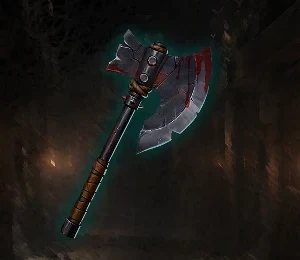
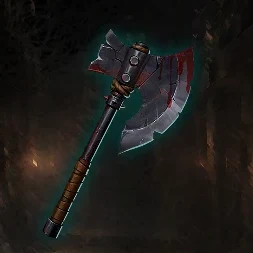
fix(ss14): square instrument art, focused on the object
- All 30 instrument pictures are re-cut square in game_art.py, framed on
  the instrument with even margins: 16 from the owner's own crops (located
  in the source prints, squared around their centre), the rest by the
  longer side, kept clear of card frames and names. The 7 video-still cuts
  no longer clip their object; the Iron Box drops the slot frame.
- The list draws them in an 83 px square; the art is absolutely placed in
  its box, so a picture's shape never sets a row's height (the Iron Box
  row was twice as tall).
- e2e: every instrument row has one height (proved with the old art: rows
  73-116 px); list pictures are checked whole at 390 and 1440 px.
- Still soft at 2x for want of a bigger source: Iron Crown, Iron Box,
  Barbed Collar (on the watchlist).

diff --git a/e2e/ss14.spec.ts b/e2e/ss14.spec.ts
@@ -376,3 +376,14 @@ for (const width of [390, 1440]) {
     expect(cropped).toEqual([]);
   });
 }
+
+// One row height for every instrument: the art sits on its box and never sets the row (a tall Iron Box icon made
+// its row twice as tall, owner 2026-10-18).
+test('instrument rows: the art never sets the row height', async ({ page }) => {
+  await page.setViewportSize({ width: 1440, height: 900 });
+  await page.goto(SHEET);
+  const heights = await page
+    .locator('#tools .tool')
+    .evaluateAll((rows) => [...new Set(rows.map((r) => Math.round(r.getBoundingClientRect().height)))]);
+  expect(heights).toHaveLength(1);
+});

diff --git a/src/sheets/ss14/play.css b/src/sheets/ss14/play.css
@@ -574,12 +574,15 @@ main.wide {
 /* card media on the left: full height of the row, no frame of its own */
 .tool .pic {
   display: block;
+  position: relative; /* the art sits on the box: its own height never sets the row's */
   align-self: stretch;
-  width: 83px; /* art wider than the box (up to 4:3) gets thin bands, never a crop */
-  min-height: 69px;
+  width: 83px; /* square, like the art: game_art.py cuts every instrument square, focused on the object */
+  min-height: 83px;
   background: #1b1916;
 }
 .tool img {
+  position: absolute;
+  inset: 0;
   width: 100%;
   height: 100%;
   object-fit: contain;

diff --git a/events/SS14_Tartarus/scripts/game_art.py b/events/SS14_Tartarus/scripts/game_art.py
@@ -47,36 +47,36 @@ CROPS = [
     ("act-replace", "27_vod_board_numbering_decision_menu.jpg", (908, 758, 100, 100), "Replace"),
     ("act-end", "27_vod_board_numbering_decision_menu.jpg", (1253, 758, 100, 100), "End"),
     # Torture Instruments: card art (ids match data/tartarus_data.json "tools")
-    ("tool-revenge", "44_live_instrument_offer.webp", (484, 353, 300, 280), "Avenger's Casket"),
-    ("tool-keys", "44_live_instrument_offer.webp", (1123, 353, 300, 280), "Lost Ring of Keys"),
-    ("tool-shackles", "44_live_instrument_offer.webp", (1761, 361, 300, 275), "Long-Chained Shackles"),
-    ("tool-cage", "67_live_objective_reward_cage_whip_coin.webp", (484, 353, 300, 280), "Crowded Beastcage"),
-    ("tool-coin", "67_live_objective_reward_cage_whip_coin.webp", (1761, 361, 300, 275), "Kin's Coin of Fate"),
-    ("tool-claws", "66_live_instrument_offer_saw_stake_claws.webp", (1761, 361, 300, 275), "Filthy Claws: Alpha Wolf (not in the simulator yet, so the site doesn't list it)"),
-    ("tool-shortchain", "69_live_instrument_short_chained_shackles.webp", (210, 230, 300, 260), "Short-Chained Shackles"),
-    ("tool-muzzle", "34_vod_torture_set_casket_muzzle_saw.jpg", (847, 270, 220, 165), "Raging Beast's Agonizing Muzzle"),
-    ("tool-saw", "34_vod_torture_set_casket_muzzle_saw.jpg", (1327, 270, 220, 165), "Rusty Saw"),
-    ("tool-scales", "35_vod_torture_set_scales_noose_pestle.jpg", (367, 270, 220, 165), "Warden's Scales"),
-    ("tool-rope", "35_vod_torture_set_scales_noose_pestle.jpg", (847, 270, 220, 165), "Hangman's Noose"),
-    ("tool-pestle", "74_live_objective_reward_scapegoat_pestle_fire.webp", (893, 260, 300, 260), "Iron Pestle (live; replaces the VOD crop)"),
-    ("tool-crown", "76_live_instrument_slot_iron_crown.webp", (60, 154, 100, 83), "Iron Crown of the Prison King (live, small print: low resolution)"),
-    ("tool-blacklist", "77_live_instrument_executioners_blacklist.webp", (235, 235, 320, 277), "Executioner's Blacklist"),
-    ("tool-ravenous", "82_live_instrument_ravenous_chains.webp", (150, 135, 240, 210), "Ferocious Beast's Ravenous Chains"),
-    ("tool-trap", "83_live_instrument_blood_stained_trap.webp", (150, 130, 240, 210), "Blood-Stained Trap: Berserk Lion"),
-    ("tool-whip", "73_live_instrument_offer_maiden_whip_shackles.webp", (893, 260, 300, 260), "Barbed Whip (live; replaces the VOD crop)"),
-    ("tool-stake", "36_vod_torture_set_whip_stake_key.jpg", (847, 270, 220, 165), "Burning Stake"),
-    ("tool-forged", "36_vod_torture_set_whip_stake_key.jpg", (1327, 270, 220, 165), "Forged Key"),
-    ("tool-tongs", "37_vod_torture_set_tongs_ratheads_guillotine.jpg", (367, 270, 220, 165), "Iron Tongs of Lust: Mammoth"),
-    ("tool-skewer", "78_live_instrument_skewered_rat_heads.webp", (150, 130, 270, 225), "Skewered Rat Heads: Colossal Rat (live; replaces the VOD crop)"),
-    ("tool-hook", "71_live_instrument_offer_fire_hook_axe.webp", (787, 170, 300, 260), "Sorting Hook"),
-    ("tool-axe", "71_live_instrument_offer_fire_hook_axe.webp", (1440, 175, 300, 260), "Gaoler's Execution Axe"),
-    ("tool-collar", "72_live_instrument_offer_hook_collar_shackles.webp", (498, 135, 180, 150), "Maddened Beast's Barbed Collar"),
-    ("tool-maiden", "73_live_instrument_offer_maiden_whip_shackles.webp", (250, 254, 300, 260), "Severed Iron Maiden"),
-    ("tool-scapegoat", "74_live_objective_reward_scapegoat_pestle_fire.webp", (250, 254, 300, 260), "Scapegoat's Guillotine"),
-    ("tool-ironbox", "38_vod_squirming_iron_box_rat_nest.jpg", (87, 328, 74, 100), "Squirming Iron Box: Colossal Rat (small icon from the left Torture Instrument panel)"),
-    ("tool-dogtag", "70_live_objective_reward_dogtag_guillotine_fire.webp", (236, 240, 300, 250), "Felon's Dog Tag"),
-    ("tool-guillotine", "70_live_objective_reward_dogtag_guillotine_fire.webp", (873, 240, 300, 250), "Fanged Guillotine: Alpha Wolf (live; replaces the VOD crop)"),
-    ("tool-fire", "70_live_objective_reward_dogtag_guillotine_fire.webp", (1510, 240, 300, 250), "Searing Branding Iron"),
+    ("tool-revenge", "44_live_instrument_offer.webp", (484, 343, 300, 300), "Avenger's Casket"),
+    ("tool-keys", "44_live_instrument_offer.webp", (1161, 374, 253, 253), "Lost Ring of Keys"),
+    ("tool-shackles", "44_live_instrument_offer.webp", (1774, 357, 270, 270), "Long-Chained Shackles"),
+    ("tool-cage", "67_live_objective_reward_cage_whip_coin.webp", (510, 369, 268, 268), "Crowded Beastcage"),
+    ("tool-coin", "67_live_objective_reward_cage_whip_coin.webp", (1805, 392, 229, 229), "Kin's Coin of Fate"),
+    ("tool-claws", "66_live_instrument_offer_saw_stake_claws.webp", (1797, 367, 247, 247), "Filthy Claws: Alpha Wolf (not in the simulator yet, so the site doesn't list it)"),
+    ("tool-shortchain", "69_live_instrument_short_chained_shackles.webp", (251, 242, 259, 259), "Short-Chained Shackles"),
+    ("tool-muzzle", "34_vod_torture_set_casket_muzzle_saw.jpg", (841, 232, 242, 242), "Raging Beast's Agonizing Muzzle"),
+    ("tool-saw", "34_vod_torture_set_casket_muzzle_saw.jpg", (1326, 247, 231, 231), "Rusty Saw"),
+    ("tool-scales", "35_vod_torture_set_scales_noose_pestle.jpg", (364, 252, 226, 226), "Warden's Scales"),
+    ("tool-rope", "35_vod_torture_set_scales_noose_pestle.jpg", (848, 212, 212, 212), "Hangman's Noose"),
+    ("tool-pestle", "74_live_objective_reward_scapegoat_pestle_fire.webp", (913, 254, 260, 260), "Iron Pestle (live; replaces the VOD crop)"),
+    ("tool-crown", "76_live_instrument_slot_iron_crown.webp", (60, 146, 100, 100), "Iron Crown of the Prison King (live, small print: low resolution)"),
+    ("tool-blacklist", "77_live_instrument_executioners_blacklist.webp", (264, 233, 281, 281), "Executioner's Blacklist"),
+    ("tool-ravenous", "82_live_instrument_ravenous_chains.webp", (150, 120, 240, 240), "Ferocious Beast's Ravenous Chains"),
+    ("tool-trap", "83_live_instrument_blood_stained_trap.webp", (150, 108, 240, 240), "Blood-Stained Trap: Berserk Lion"),
+    ("tool-whip", "73_live_instrument_offer_maiden_whip_shackles.webp", (918, 258, 260, 260), "Barbed Whip (live; replaces the VOD crop)"),
+    ("tool-stake", "36_vod_torture_set_whip_stake_key.jpg", (840, 196, 240, 240), "Burning Stake"),
+    ("tool-forged", "36_vod_torture_set_whip_stake_key.jpg", (1359, 297, 170, 170), "Forged Key"),
+    ("tool-tongs", "37_vod_torture_set_tongs_ratheads_guillotine.jpg", (378, 272, 213, 213), "Iron Tongs of Lust: Mammoth"),
+    ("tool-skewer", "78_live_instrument_skewered_rat_heads.webp", (150, 108, 270, 270), "Skewered Rat Heads: Colossal Rat (live; replaces the VOD crop)"),
+    ("tool-hook", "71_live_instrument_offer_fire_hook_axe.webp", (820, 184, 245, 245), "Sorting Hook"),
+    ("tool-axe", "71_live_instrument_offer_fire_hook_axe.webp", (1458, 175, 253, 253), "Gaoler's Execution Axe"),
+    ("tool-collar", "72_live_instrument_offer_hook_collar_shackles.webp", (521, 145, 144, 144), "Maddened Beast's Barbed Collar"),
+    ("tool-maiden", "73_live_instrument_offer_maiden_whip_shackles.webp", (278, 254, 260, 260), "Severed Iron Maiden"),
+    ("tool-scapegoat", "74_live_objective_reward_scapegoat_pestle_fire.webp", (250, 234, 300, 300), "Scapegoat's Guillotine"),
+    ("tool-ironbox", "38_vod_squirming_iron_box_rat_nest.jpg", (88, 354, 72, 72), "Squirming Iron Box: Colossal Rat (the box only, from the small icon in the left Torture Instrument panel; low-res until a card print)"),
+    ("tool-dogtag", "70_live_objective_reward_dogtag_guillotine_fire.webp", (272, 254, 229, 229), "Felon's Dog Tag"),
+    ("tool-guillotine", "70_live_objective_reward_dogtag_guillotine_fire.webp", (913, 251, 236, 236), "Fanged Guillotine: Alpha Wolf (live; replaces the VOD crop)"),
+    ("tool-fire", "70_live_objective_reward_dogtag_guillotine_fire.webp", (1548, 244, 250, 250), "Searing Branding Iron"),
     # Warden's Treasures (official preview VOD ~3:59; ids match "gifts")
     ("gift-ring", "39_vod_wardens_treasure_chromatic.jpg", (200, 260, 220, 200), "Three-Headed Thumb Ring"),
     ("gift-horn", "39_vod_wardens_treasure_chromatic.jpg", (635, 260, 220, 200), "Brass Horn of Strife"),

diff --git a/events/SS14_Tartarus/art/SOURCES.md b/events/SS14_Tartarus/art/SOURCES.md
@@ -21,36 +21,36 @@ Each piece is a rectangle cut from an image indexed in [images/INDEX.md](../imag
 | `act-consume` | Consume | [27_vod_board_numbering_decision_menu.jpg](../images/27_vod_board_numbering_decision_menu.jpg) | 563,758 100×100 |
 | `act-replace` | Replace | [27_vod_board_numbering_decision_menu.jpg](../images/27_vod_board_numbering_decision_menu.jpg) | 908,758 100×100 |
 | `act-end` | End | [27_vod_board_numbering_decision_menu.jpg](../images/27_vod_board_numbering_decision_menu.jpg) | 1253,758 100×100 |
-| `tool-revenge` | Avenger's Casket | [44_live_instrument_offer.webp](../images/44_live_instrument_offer.webp) | 484,353 300×280 |
-| `tool-keys` | Lost Ring of Keys | [44_live_instrument_offer.webp](../images/44_live_instrument_offer.webp) | 1123,353 300×280 |
-| `tool-shackles` | Long-Chained Shackles | [44_live_instrument_offer.webp](../images/44_live_instrument_offer.webp) | 1761,361 300×275 |
-| `tool-cage` | Crowded Beastcage | [67_live_objective_reward_cage_whip_coin.webp](../images/67_live_objective_reward_cage_whip_coin.webp) | 484,353 300×280 |
-| `tool-coin` | Kin's Coin of Fate | [67_live_objective_reward_cage_whip_coin.webp](../images/67_live_objective_reward_cage_whip_coin.webp) | 1761,361 300×275 |
-| `tool-claws` | Filthy Claws: Alpha Wolf (not in the simulator yet, so the site doesn't list it) | [66_live_instrument_offer_saw_stake_claws.webp](../images/66_live_instrument_offer_saw_stake_claws.webp) | 1761,361 300×275 |
-| `tool-shortchain` | Short-Chained Shackles | [69_live_instrument_short_chained_shackles.webp](../images/69_live_instrument_short_chained_shackles.webp) | 210,230 300×260 |
-| `tool-muzzle` | Raging Beast's Agonizing Muzzle | [34_vod_torture_set_casket_muzzle_saw.jpg](../images/34_vod_torture_set_casket_muzzle_saw.jpg) | 847,270 220×165 |
-| `tool-saw` | Rusty Saw | [34_vod_torture_set_casket_muzzle_saw.jpg](../images/34_vod_torture_set_casket_muzzle_saw.jpg) | 1327,270 220×165 |
-| `tool-scales` | Warden's Scales | [35_vod_torture_set_scales_noose_pestle.jpg](../images/35_vod_torture_set_scales_noose_pestle.jpg) | 367,270 220×165 |
-| `tool-rope` | Hangman's Noose | [35_vod_torture_set_scales_noose_pestle.jpg](../images/35_vod_torture_set_scales_noose_pestle.jpg) | 847,270 220×165 |
-| `tool-pestle` | Iron Pestle (live; replaces the VOD crop) | [74_live_objective_reward_scapegoat_pestle_fire.webp](../images/74_live_objective_reward_scapegoat_pestle_fire.webp) | 893,260 300×260 |
-| `tool-crown` | Iron Crown of the Prison King (live, small print: low resolution) | [76_live_instrument_slot_iron_crown.webp](../images/76_live_instrument_slot_iron_crown.webp) | 60,154 100×83 |
-| `tool-blacklist` | Executioner's Blacklist | [77_live_instrument_executioners_blacklist.webp](../images/77_live_instrument_executioners_blacklist.webp) | 235,235 320×277 |
-| `tool-ravenous` | Ferocious Beast's Ravenous Chains | [82_live_instrument_ravenous_chains.webp](../images/82_live_instrument_ravenous_chains.webp) | 150,135 240×210 |
-| `tool-trap` | Blood-Stained Trap: Berserk Lion | [83_live_instrument_blood_stained_trap.webp](../images/83_live_instrument_blood_stained_trap.webp) | 150,130 240×210 |
-| `tool-whip` | Barbed Whip (live; replaces the VOD crop) | [73_live_instrument_offer_maiden_whip_shackles.webp](../images/73_live_instrument_offer_maiden_whip_shackles.webp) | 893,260 300×260 |
-| `tool-stake` | Burning Stake | [36_vod_torture_set_whip_stake_key.jpg](../images/36_vod_torture_set_whip_stake_key.jpg) | 847,270 220×165 |
-| `tool-forged` | Forged Key | [36_vod_torture_set_whip_stake_key.jpg](../images/36_vod_torture_set_whip_stake_key.jpg) | 1327,270 220×165 |
-| `tool-tongs` | Iron Tongs of Lust: Mammoth | [37_vod_torture_set_tongs_ratheads_guillotine.jpg](../images/37_vod_torture_set_tongs_ratheads_guillotine.jpg) | 367,270 220×165 |
-| `tool-skewer` | Skewered Rat Heads: Colossal Rat (live; replaces the VOD crop) | [78_live_instrument_skewered_rat_heads.webp](../images/78_live_instrument_skewered_rat_heads.webp) | 150,130 270×225 |
-| `tool-hook` | Sorting Hook | [71_live_instrument_offer_fire_hook_axe.webp](../images/71_live_instrument_offer_fire_hook_axe.webp) | 787,170 300×260 |
-| `tool-axe` | Gaoler's Execution Axe | [71_live_instrument_offer_fire_hook_axe.webp](../images/71_live_instrument_offer_fire_hook_axe.webp) | 1440,175 300×260 |
-| `tool-collar` | Maddened Beast's Barbed Collar | [72_live_instrument_offer_hook_collar_shackles.webp](../images/72_live_instrument_offer_hook_collar_shackles.webp) | 498,135 180×150 |
-| `tool-maiden` | Severed Iron Maiden | [73_live_instrument_offer_maiden_whip_shackles.webp](../images/73_live_instrument_offer_maiden_whip_shackles.webp) | 250,254 300×260 |
-| `tool-scapegoat` | Scapegoat's Guillotine | [74_live_objective_reward_scapegoat_pestle_fire.webp](../images/74_live_objective_reward_scapegoat_pestle_fire.webp) | 250,254 300×260 |
-| `tool-ironbox` | Squirming Iron Box: Colossal Rat (small icon from the left Torture Instrument panel) | [38_vod_squirming_iron_box_rat_nest.jpg](../images/38_vod_squirming_iron_box_rat_nest.jpg) | 87,328 74×100 |
-| `tool-dogtag` | Felon's Dog Tag | [70_live_objective_reward_dogtag_guillotine_fire.webp](../images/70_live_objective_reward_dogtag_guillotine_fire.webp) | 236,240 300×250 |
-| `tool-guillotine` | Fanged Guillotine: Alpha Wolf (live; replaces the VOD crop) | [70_live_objective_reward_dogtag_guillotine_fire.webp](../images/70_live_objective_reward_dogtag_guillotine_fire.webp) | 873,240 300×250 |
-| `tool-fire` | Searing Branding Iron | [70_live_objective_reward_dogtag_guillotine_fire.webp](../images/70_live_objective_reward_dogtag_guillotine_fire.webp) | 1510,240 300×250 |
+| `tool-revenge` | Avenger's Casket | [44_live_instrument_offer.webp](../images/44_live_instrument_offer.webp) | 484,343 300×300 |
+| `tool-keys` | Lost Ring of Keys | [44_live_instrument_offer.webp](../images/44_live_instrument_offer.webp) | 1161,374 253×253 |
+| `tool-shackles` | Long-Chained Shackles | [44_live_instrument_offer.webp](../images/44_live_instrument_offer.webp) | 1774,357 270×270 |
+| `tool-cage` | Crowded Beastcage | [67_live_objective_reward_cage_whip_coin.webp](../images/67_live_objective_reward_cage_whip_coin.webp) | 510,369 268×268 |
+| `tool-coin` | Kin's Coin of Fate | [67_live_objective_reward_cage_whip_coin.webp](../images/67_live_objective_reward_cage_whip_coin.webp) | 1805,392 229×229 |
+| `tool-claws` | Filthy Claws: Alpha Wolf (not in the simulator yet, so the site doesn't list it) | [66_live_instrument_offer_saw_stake_claws.webp](../images/66_live_instrument_offer_saw_stake_claws.webp) | 1797,367 247×247 |
+| `tool-shortchain` | Short-Chained Shackles | [69_live_instrument_short_chained_shackles.webp](../images/69_live_instrument_short_chained_shackles.webp) | 251,242 259×259 |
+| `tool-muzzle` | Raging Beast's Agonizing Muzzle | [34_vod_torture_set_casket_muzzle_saw.jpg](../images/34_vod_torture_set_casket_muzzle_saw.jpg) | 841,232 242×242 |
+| `tool-saw` | Rusty Saw | [34_vod_torture_set_casket_muzzle_saw.jpg](../images/34_vod_torture_set_casket_muzzle_saw.jpg) | 1326,247 231×231 |
+| `tool-scales` | Warden's Scales | [35_vod_torture_set_scales_noose_pestle.jpg](../images/35_vod_torture_set_scales_noose_pestle.jpg) | 364,252 226×226 |
+| `tool-rope` | Hangman's Noose | [35_vod_torture_set_scales_noose_pestle.jpg](../images/35_vod_torture_set_scales_noose_pestle.jpg) | 848,212 212×212 |
+| `tool-pestle` | Iron Pestle (live; replaces the VOD crop) | [74_live_objective_reward_scapegoat_pestle_fire.webp](../images/74_live_objective_reward_scapegoat_pestle_fire.webp) | 913,254 260×260 |
+| `tool-crown` | Iron Crown of the Prison King (live, small print: low resolution) | [76_live_instrument_slot_iron_crown.webp](../images/76_live_instrument_slot_iron_crown.webp) | 60,146 100×100 |
+| `tool-blacklist` | Executioner's Blacklist | [77_live_instrument_executioners_blacklist.webp](../images/77_live_instrument_executioners_blacklist.webp) | 264,233 281×281 |
+| `tool-ravenous` | Ferocious Beast's Ravenous Chains | [82_live_instrument_ravenous_chains.webp](../images/82_live_instrument_ravenous_chains.webp) | 150,120 240×240 |
+| `tool-trap` | Blood-Stained Trap: Berserk Lion | [83_live_instrument_blood_stained_trap.webp](../images/83_live_instrument_blood_stained_trap.webp) | 150,108 240×240 |
+| `tool-whip` | Barbed Whip (live; replaces the VOD crop) | [73_live_instrument_offer_maiden_whip_shackles.webp](../images/73_live_instrument_offer_maiden_whip_shackles.webp) | 918,258 260×260 |
+| `tool-stake` | Burning Stake | [36_vod_torture_set_whip_stake_key.jpg](../images/36_vod_torture_set_whip_stake_key.jpg) | 840,196 240×240 |
+| `tool-forged` | Forged Key | [36_vod_torture_set_whip_stake_key.jpg](../images/36_vod_torture_set_whip_stake_key.jpg) | 1359,297 170×170 |
+| `tool-tongs` | Iron Tongs of Lust: Mammoth | [37_vod_torture_set_tongs_ratheads_guillotine.jpg](../images/37_vod_torture_set_tongs_ratheads_guillotine.jpg) | 378,272 213×213 |
+| `tool-skewer` | Skewered Rat Heads: Colossal Rat (live; replaces the VOD crop) | [78_live_instrument_skewered_rat_heads.webp](../images/78_live_instrument_skewered_rat_heads.webp) | 150,108 270×270 |
+| `tool-hook` | Sorting Hook | [71_live_instrument_offer_fire_hook_axe.webp](../images/71_live_instrument_offer_fire_hook_axe.webp) | 820,184 245×245 |
+| `tool-axe` | Gaoler's Execution Axe | [71_live_instrument_offer_fire_hook_axe.webp](../images/71_live_instrument_offer_fire_hook_axe.webp) | 1458,175 253×253 |
+| `tool-collar` | Maddened Beast's Barbed Collar | [72_live_instrument_offer_hook_collar_shackles.webp](../images/72_live_instrument_offer_hook_collar_shackles.webp) | 521,145 144×144 |
+| `tool-maiden` | Severed Iron Maiden | [73_live_instrument_offer_maiden_whip_shackles.webp](../images/73_live_instrument_offer_maiden_whip_shackles.webp) | 278,254 260×260 |
+| `tool-scapegoat` | Scapegoat's Guillotine | [74_live_objective_reward_scapegoat_pestle_fire.webp](../images/74_live_objective_reward_scapegoat_pestle_fire.webp) | 250,234 300×300 |
+| `tool-ironbox` | Squirming Iron Box: Colossal Rat (the box only, from the small icon in the left Torture Instrument panel; low-res until a card print) | [38_vod_squirming_iron_box_rat_nest.jpg](../images/38_vod_squirming_iron_box_rat_nest.jpg) | 88,354 72×72 |
+| `tool-dogtag` | Felon's Dog Tag | [70_live_objective_reward_dogtag_guillotine_fire.webp](../images/70_live_objective_reward_dogtag_guillotine_fire.webp) | 272,254 229×229 |
+| `tool-guillotine` | Fanged Guillotine: Alpha Wolf (live; replaces the VOD crop) | [70_live_objective_reward_dogtag_guillotine_fire.webp](../images/70_live_objective_reward_dogtag_guillotine_fire.webp) | 913,251 236×236 |
+| `tool-fire` | Searing Branding Iron | [70_live_objective_reward_dogtag_guillotine_fire.webp](../images/70_live_objective_reward_dogtag_guillotine_fire.webp) | 1548,244 250×250 |
 | `gift-ring` | Three-Headed Thumb Ring | [39_vod_wardens_treasure_chromatic.jpg](../images/39_vod_wardens_treasure_chromatic.jpg) | 200,260 220×200 |
 | `gift-horn` | Brass Horn of Strife | [39_vod_wardens_treasure_chromatic.jpg](../images/39_vod_wardens_treasure_chromatic.jpg) | 635,260 220×200 |
 | `gift-wine` | Crimson Vintage | [39_vod_wardens_treasure_chromatic.jpg](../images/39_vod_wardens_treasure_chromatic.jpg) | 1075,265 220×200 |

diff --git a/CHANGELOG.md b/CHANGELOG.md
@@ -6,6 +6,10 @@ What changed in the game itself (patches, odds, data) is logged per event in `ev
 
 ## [Unreleased]
 
+### Changed
+
+- SS14 play sheet: every instrument picture is re-cut square and focused on the instrument, the whole object in view (framing chosen by the owner), and every instrument row has the same height.
+
 ## [1.10.2] - 2026-10-18
 
 ### Changed
